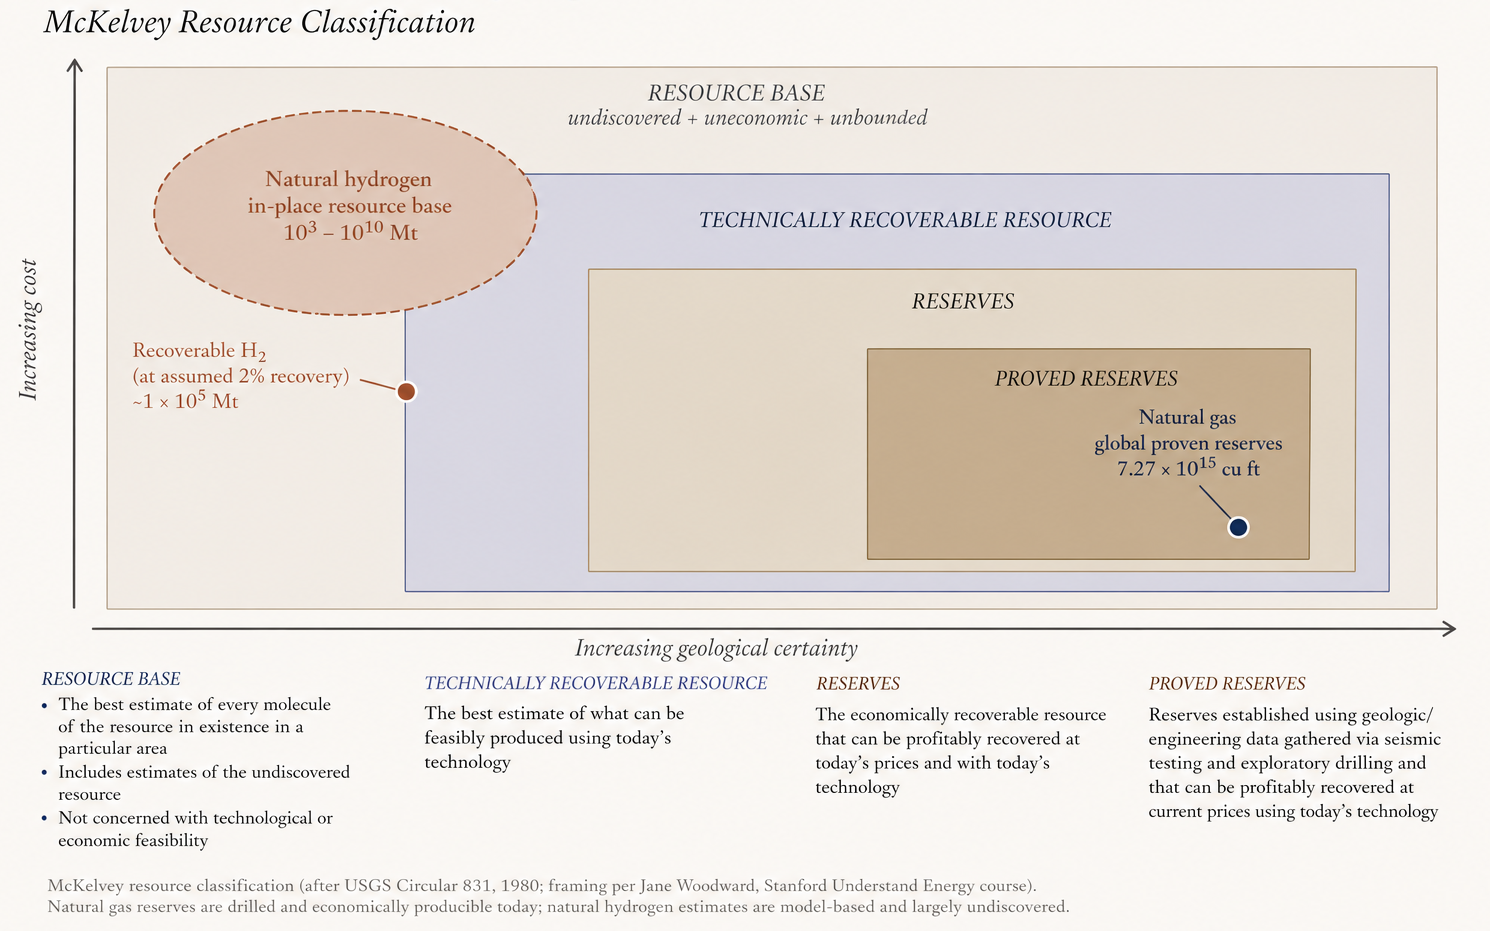
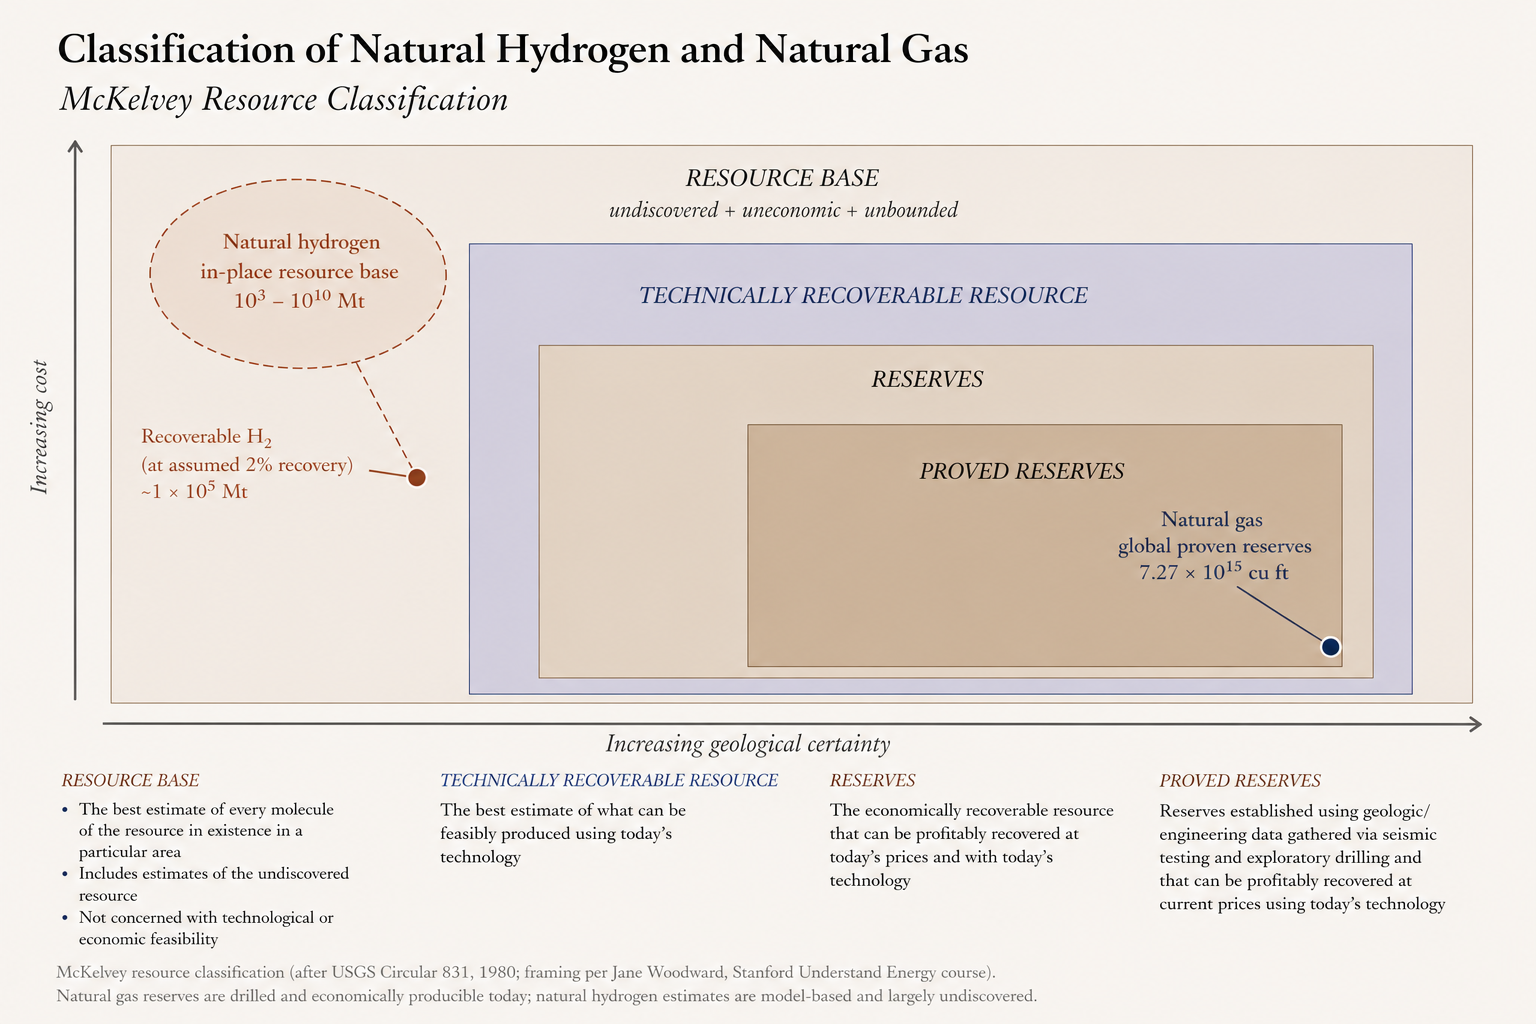
update natural-hydrogen essay: citations, McKelvey image, text edits
- Replace McKelvey figure with revised version
- Add inline citations: McKelvey diagram (USGS), Mali commercial
  natural-hydrogen project (Nature 2023), IEA H2 Review 2024
  infrastructure chapter, ArcelorMittal / SSAB-HYBRIT / Stegra
  H2-DRI projects, IEA Iron and Steel Technology Roadmap
- Mirror author's textual revisions: BHS framing with fairy-circles
  definition, attribute USGS rather than authors in §3, refined AGI
  analogy in §6, fix typo, minor clarity edits
- Bump publish date to April 30, 2026

Changed region(s): [[0.0309, 0.0, 0.9879, 0.9968], [0.0, 0.2803, 0.0617, 0.6541]]

diff --git a/natural-hydrogen-wont-replace-natural-gas.html b/natural-hydrogen-wont-replace-natural-gas.html
@@ -191,7 +191,7 @@
 
   <article>
     <h1>Natural Hydrogen Won't Replace Natural Gas. It Doesn't Need To.</h1>
-    <div class="meta">April 29, 2026</div>
+    <div class="meta">April 30, 2026</div>
 
     <p>The U.S. Geological Survey's 2024 estimate puts enough natural hydrogen in the Earth's crust to last us 701,031 years.</p>
 
@@ -199,7 +199,7 @@
 
     <p>If you have read the press coverage, you have already seen the obvious conclusion drawn for you. Natural hydrogen is the energy transition's missing piece. Cleaner than gray hydrogen. Cheaper than green. Geologically abundant. A Swiss army knife for the climate problem.</p>
 
-    <p>I have spent the last several years exploring this resource. I built my Stanford master's thesis around it. I published the framework I called the <a href="https://doi.org/10.1016/j.ijhydene.2025.150492">Blind Hydrogen System</a>, a contrarian view that subsurface generative geology, not surface fairy circles, is where the next discoveries live. I decided to do a PhD on it. I think the geology is real and the science of how rocks make hydrogen is settled.</p>
+    <p>I have spent the last several years exploring this resource. I built my Stanford master's thesis around it. I published the framework I called the <a href="https://doi.org/10.1016/j.ijhydene.2025.150492">Blind Hydrogen System</a>, a framework for subsurface hydrogen exploration and stimulation, focusing on geological configurations beyond visible surface features such as "fairy circles." Fairy circles are sub circular depressions on the earth's surface that are considered as indicators for the presence of hydrogen. I decided to do a PhD on natural hydrogen. The geology is real and the science of how rocks make hydrogen is settled.</p>
 
     <p>I am also here to tell you that the framing the press is repeating is wrong. The claim that natural hydrogen will replace, or seriously compete with, natural gas is going to set the industry up to fail at exactly the moment it should be winning.</p>
 
@@ -230,7 +230,9 @@
 
     <h3>We are comparing two ends of the resource spectrum as if they were the same thing</h3>
 
-    <p>In 1980, the USGS published the framework that geologists and energy economists still teach as the McKelvey diagram. It places resources along two axes. Geological certainty runs left to right. Cost of extraction runs bottom to top. The lower-right corner is where you find proved reserves, drilled, tested, profitably producible at today's prices with today's technology. The upper-left is where you find the resource base, every molecule we suspect might be down there, no matter how speculative, no matter how uneconomic.</p>
+    <p>Natural gas is the dominant energy source in the United States today. Any new entrant that wants to displace it gets compared against it. To understand why that comparison so often misleads, we need a framework.</p>
+
+    <p>In 1980, the USGS published the framework that geologists and energy economists still teach as the <a href="https://www.usgs.gov/media/images/mckelvey-diagram">McKelvey diagram</a>. It places resources along two axes. Geological certainty runs left to right. Cost of extraction runs bottom to top. The lower-right corner is where you find proved reserves, drilled, tested, profitably producible at today's prices with today's technology. The upper-left is where you find the resource base, every molecule we suspect might be down there, no matter how speculative, no matter how uneconomic.</p>
 
     <figure>
       <img src="figures/natural-hydrogen/fig2_mckelvey_diagram.png" alt="McKelvey resource classification with global proven natural gas reserves positioned inside the innermost Proved Reserves rectangle and natural hydrogen in-place estimates positioned in the outer Resource Base region, outside the Technically Recoverable boundary.">
@@ -239,21 +241,21 @@
 
     <p>When OPEC publishes "global proven natural gas reserves of 7.27 × 10<sup>15</sup> cubic feet," that number lives in the lower-right cell. Each one of those cubic feet has been demonstrated by drilling, characterized by engineering data, and certified as recoverable at current prices. It is the cash in the world's energy checking account.</p>
 
-    <p>When Ellis and Gelman publish "5.6 million megatonnes of in-place geologic hydrogen," that number lives in the upper-left cell. It is the integral of a stochastic model running across every continental basin on Earth. Almost none of it has been drilled. None of it has demonstrated economics. We have one commercial natural-hydrogen well in Mali and a handful of exploratory campaigns elsewhere.</p>
+    <p>When the USGS published "5.6 million megatonnes of in-place geologic hydrogen," that number lives in the upper-left cell. It is the integral of a stochastic model running across every continental basin on Earth. Almost none of it has been drilled. None of it has demonstrated economics. We have <a href="https://www.nature.com/articles/s41598-023-38977-y">one commercial natural-hydrogen project in Mali</a> and a handful of exploratory campaigns elsewhere.</p>
 
     <p>These two numbers are not comparable. They sit at opposite ends of a classification scheme designed exactly to keep us from comparing them. Putting them side-by-side on an energy chart is like comparing the cash in your pocket to the dollar value of every mineral that might exist beneath your house. Even if both numbers are correct, the comparison itself is broken.</p>
 
     <h3>The recovery factor is a guess on top of a model</h3>
 
-    <p>Set aside the McKelvey mismatch and focus on the recoverable fraction Ellis and Gelman cite. That number, 1 × 10<sup>5</sup> megatonnes, rests on a 2 percent recovery factor. Where does the 2 percent come from? Not from data. From authorial judgment. The paper acknowledges this.</p>
+    <p>Set aside the McKelvey mismatch and focus on the recoverable fraction the USGS cited. That number, 1 × 10<sup>5</sup> megatonnes, rests on a 2 percent recovery factor. Where does the 2 percent come from? Not from data. From authorial judgment. The paper acknowledges this.</p>
 
-    <p>For comparison, oil recovery from a typical reservoir runs 30 to 35 percent. Conventional natural gas runs 70 to 80. Those numbers come from a century of operations. Natural hydrogen recovery has never been demonstrated at industrial scale anywhere. We have one commercial well. The 2 percent assumption may turn out to be optimistic. It may turn out to be conservative. We do not yet know.</p>
+    <p>For comparison, oil recovery from a typical reservoir runs 30 to 35 percent. Conventional natural gas runs 70 to 80. Those numbers come from a century of operations. Natural hydrogen recovery has never been demonstrated at industrial scale anywhere. We have one commercial field. The 2 percent assumption may turn out to be optimistic. It may turn out to be conservative. We do not yet know.</p>
 
     <p>What we do know is that hydrogen is the smallest molecule in the periodic table, with a tendency to leak through reservoir seals, react with formation minerals, and feed subsurface microbial communities that consume it as fast as it migrates. Each of those processes is a candidate reason recoverability could be lower than the assumption. The mean in-place number rests on a mass-balance model. The recoverable fraction rests on a guess on top of that model.</p>
 
     <h3>A resource base is the integral of a slow flow</h3>
 
-    <p>Buried in the methodology of Ellis and Gelman is a quieter, less photogenic number. The same mass-balance model that produces the in-place stock estimate also produces an estimate of how fast the Earth makes hydrogen in the first place. The most-probable annual generation rate is 24 megatonnes per year. The mean is roughly 50.</p>
+    <p>Buried in the methodology of the USGS is a quieter, less photogenic number. The same mass-balance model that produces the in-place stock estimate also produces an estimate of how fast the Earth makes hydrogen in the first place. The most-probable annual generation rate is 24 megatonnes per year. The mean is roughly 50.</p>
 
     <p>Current global hydrogen demand is 97 megatonnes per year. The IEA's projected demand under a net-zero pathway is 530.</p>
 
@@ -272,7 +274,7 @@
 
     <p>Suppose every assumption above held. Suppose tomorrow we demonstrate 30 percent recovery in a basin near a major demand center. Suppose the in-place mean turns out to be conservative. Hydrogen-as-natural-gas-substitute still loses on time.</p>
 
-    <p>Replacing natural gas in power generation requires pipelines rated for hydrogen pressures, turbines redesigned for hydrogen combustion, storage caverns selected for hydrogen permeability, and end-use appliances re-engineered for a fuel that burns three times faster than methane and stores at one-third the volumetric energy density. By most estimates, that is thirty years of capital expenditure in the most optimistic scenario.</p>
+    <p>Replacing natural gas in power generation requires pipelines rated for hydrogen pressures, turbines redesigned for hydrogen combustion, storage caverns selected for hydrogen permeability, and end-use appliances re-engineered for a fuel that burns three times faster than methane and stores at one-third the volumetric energy density. By <a href="https://www.iea.org/reports/global-hydrogen-review-2024/trade-and-infrastructure">most estimates</a>, that is thirty years of capital expenditure in the most optimistic scenario.</p>
 
     <p>By the time it is done, gas-fired power has either been displaced by some combination of solar plus storage, geothermal, and small modular nuclear, all of which are cheaper than building a hydrogen economy from scratch, or it has survived precisely because it remains the best fit for that particular niche. Either way, hydrogen-as-natural-gas-substitute loses. It loses on speed. It loses on cost. It loses on infrastructure inertia. The fight cannot be won on the incumbent's strongest ground.</p>
 
@@ -282,7 +284,7 @@
 
     <p><strong>Ammonia.</strong> Ninety percent of the world's nitrogen fertilizer is made from ammonia, which is made from hydrogen plus nitrogen. Today, almost all of that hydrogen is gray, manufactured from natural gas, responsible for roughly 2 percent of global CO<sub>2</sub> emissions all by itself. Replacing gray hydrogen with low-carbon hydrogen for ammonia is not glamorous, but it is the single largest, most boring, and most valuable decarbonization opportunity in industrial chemistry.</p>
 
-    <p><strong>Steel.</strong> Direct reduced iron, the leading clean-steel pathway, uses hydrogen instead of metallurgical coke to reduce iron ore. ArcelorMittal, SSAB, and H2 Green Steel are already deploying it at first-of-a-kind scale. Steel accounts for 7 to 8 percent of global CO<sub>2</sub>. Hydrogen is the only known route to clean primary steel.</p>
+    <p><strong>Steel.</strong> Direct reduced iron, the leading clean-steel pathway, uses hydrogen instead of metallurgical coke to reduce iron ore. <a href="https://corporate.arcelormittal.com/media/cases-studies/hydrogen-based-steelmaking-to-begin-in-hamburg">ArcelorMittal</a>, <a href="https://www.hybritdevelopment.se/en/">SSAB</a>, and <a href="https://stegra.com">H2 Green Steel</a> are already deploying it at first-of-a-kind scale. <a href="https://www.iea.org/reports/iron-and-steel-technology-roadmap">Steel accounts for 7 to 8 percent of global CO<sub>2</sub></a>. Hydrogen is the only known route to clean primary steel.</p>
 
     <p><strong>Refining and petrochemicals.</strong> Hydrocracking, desulfurization, methanol synthesis. The infrastructure already runs on hydrogen, and demand is structural rather than aspirational.</p>
 
@@ -292,13 +294,13 @@
 
     <p>What unites these markets is what they have in common at the molecular level. None of them are well served by natural gas. None of them are displaced by solar plus batteries. Each is a market where hydrogen wins on chemistry, not on energy density per dollar.</p>
 
-    <p>The natural-hydrogen industry has spent the last two years pricing itself against natural gas. That is a fight on natural gas's strongest ground, where the incumbent is cheaper, deployed, and abundant. The honest sales pitch is the opposite. We can decarbonize the parts of the global economy that solar cannot reach, faster and cheaper than any other route. That is a market measured in many hundreds of billions of dollars. It does not require a 701,031-year reserve to make sense. It requires a few well-placed reservoirs near steel mills, ammonia plants, and refineries.</p>
+    <p>The natural-hydrogen industry has spent the last couple of years pricing itself against natural gas. That is a fight on natural gas's strongest ground, where the incumbent is cheaper, deployed, and abundant. The honest sales pitch is the opposite. We can decarbonize the parts of the global economy that solar cannot reach, faster and cheaper than any other route. That is a market measured in many hundreds of billions of dollars. It does not require a 701,031-year reserve to make sense. It requires a few well-placed natural hydrogen reservoirs near steel mills, ammonia plants, and refineries.</p>
 
     <h2>What this means for explorers, investors, and policy</h2>
 
-    <p><strong>Explorers.</strong> Stop hunting for hydrogen in the abstract. Start hunting for hydrogen near offtake. The economic value of a megatonne of natural hydrogen ten miles from a refinery or an ammonia plant is two orders of magnitude greater than the same megatonne in a remote basin. The <a href="https://doi.org/10.1016/j.ijhydene.2025.150492">Blind Hydrogen System</a> framework, the view I published from my thesis work, was built for exactly this kind of search. Integrating subsurface generative geology with proximity to demand, rather than chasing surface anomalies in middle-of-nowhere locations.</p>
+    <p><strong>Explorers.</strong> Stop hunting for hydrogen in the abstract. Start hunting for hydrogen near offtake. The economic value of a megatonne of natural hydrogen ten miles from a refinery or an ammonia plant is two orders of magnitude greater than the same megatonne in a remote basin. The <a href="https://doi.org/10.1016/j.ijhydene.2025.150492">Blind Hydrogen System</a> framework, the view I published from my thesis work, was built for exactly this kind of search. Integrating subsurface geology with proximity to demand, rather than chasing surface anomalies in middle-of-nowhere locations.</p>
 
-    <p><strong>Investors.</strong> Anchor portfolios in ammonia, steel, and refining. Be skeptical of pitches that benchmark terawatt-hours against natural gas. The market that pays is the molecule market, not the energy market.</p>
+    <p><strong>Investors.</strong> Anchor portfolios in ammonia, steel, and refining. Be skeptical of pitches that benchmark terawatt-hours against natural gas. The market that really pays is the molecule market, not the energy market.</p>
 
     <p><strong>Policymakers.</strong> Stop subsidizing hydrogen-as-natural-gas-substitute. That includes blue hydrogen for power, hydrogen blending in pipelines, and hydrogen-fired turbines designed to displace gas. Subsidize hydrogen-as-coke-substitute, hydrogen-as-ammonia-feedstock, and hydrogen-as-refining-input. Tie tax credits to molecule end-use, not to energy parity with fossil fuels.</p>
 
@@ -308,7 +310,7 @@
 
     <p>The 701,031-year number is real. The energy is real. The science is real. But "we can power the world with this" is the wrong story to tell about it, and the people telling it are setting up a defeat we do not deserve.</p>
 
-    <p>Think about the analogous mistake we are watching unfold with artificial intelligence. AGI is not a replacement for human intelligence. It is a sophisticated tool, a co-pilot, valuable precisely where human cognition is bottlenecked. Try to frame it as a wholesale replacement and the technology fails on the comparison. Frame it as augmentation, deployed where it has comparative advantage, and the same technology pays for itself many times over.</p>
+    <p>Think about the analogous framing we are watching unfold with artificial intelligence. In my view, AGI is not a replacement for human intelligence. It is a powerful and sophisticated technology, a human co-pilot, valuable precisely where human cognition is bottlenecked. Try to frame it as a wholesale replacement and the technology fails on the comparison. Frame it as augmentation, deployed where it has comparative advantage, and the same technology pays for itself many times over.</p>
 
     <p>Hydrogen is the same. It is not a replacement for the current energy system. It is a useful energy source in a few localized cases and a sophisticated, surgical energy vector in the industrial chemistry where nothing else works. The future of natural hydrogen lives in those sectors, with sparing localized use cases in transportation and stationary applications elsewhere. Sold honestly, this is a winning hand. Sold as a natural-gas killer, it is a losing one.</p>
 
